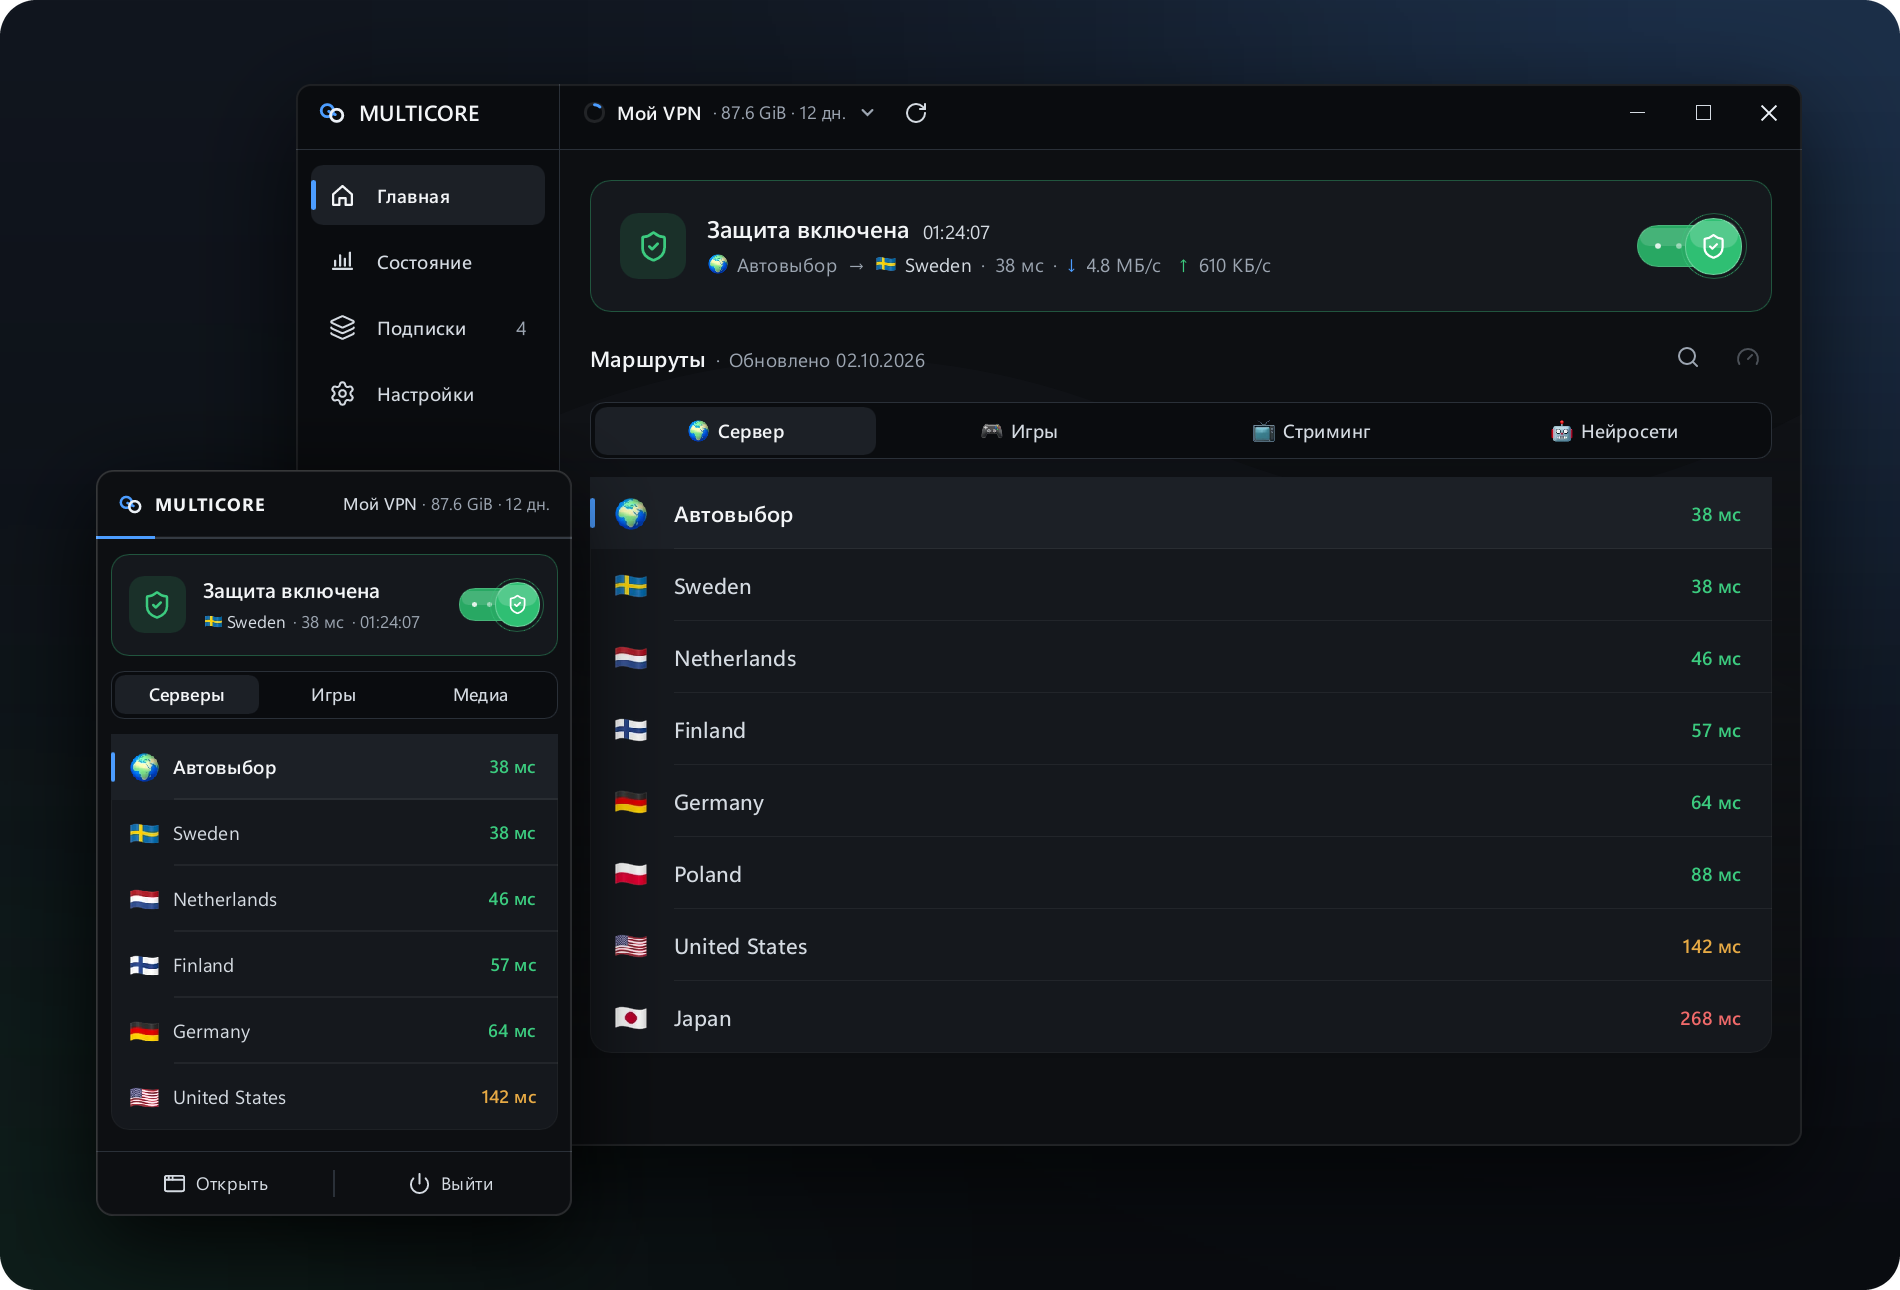
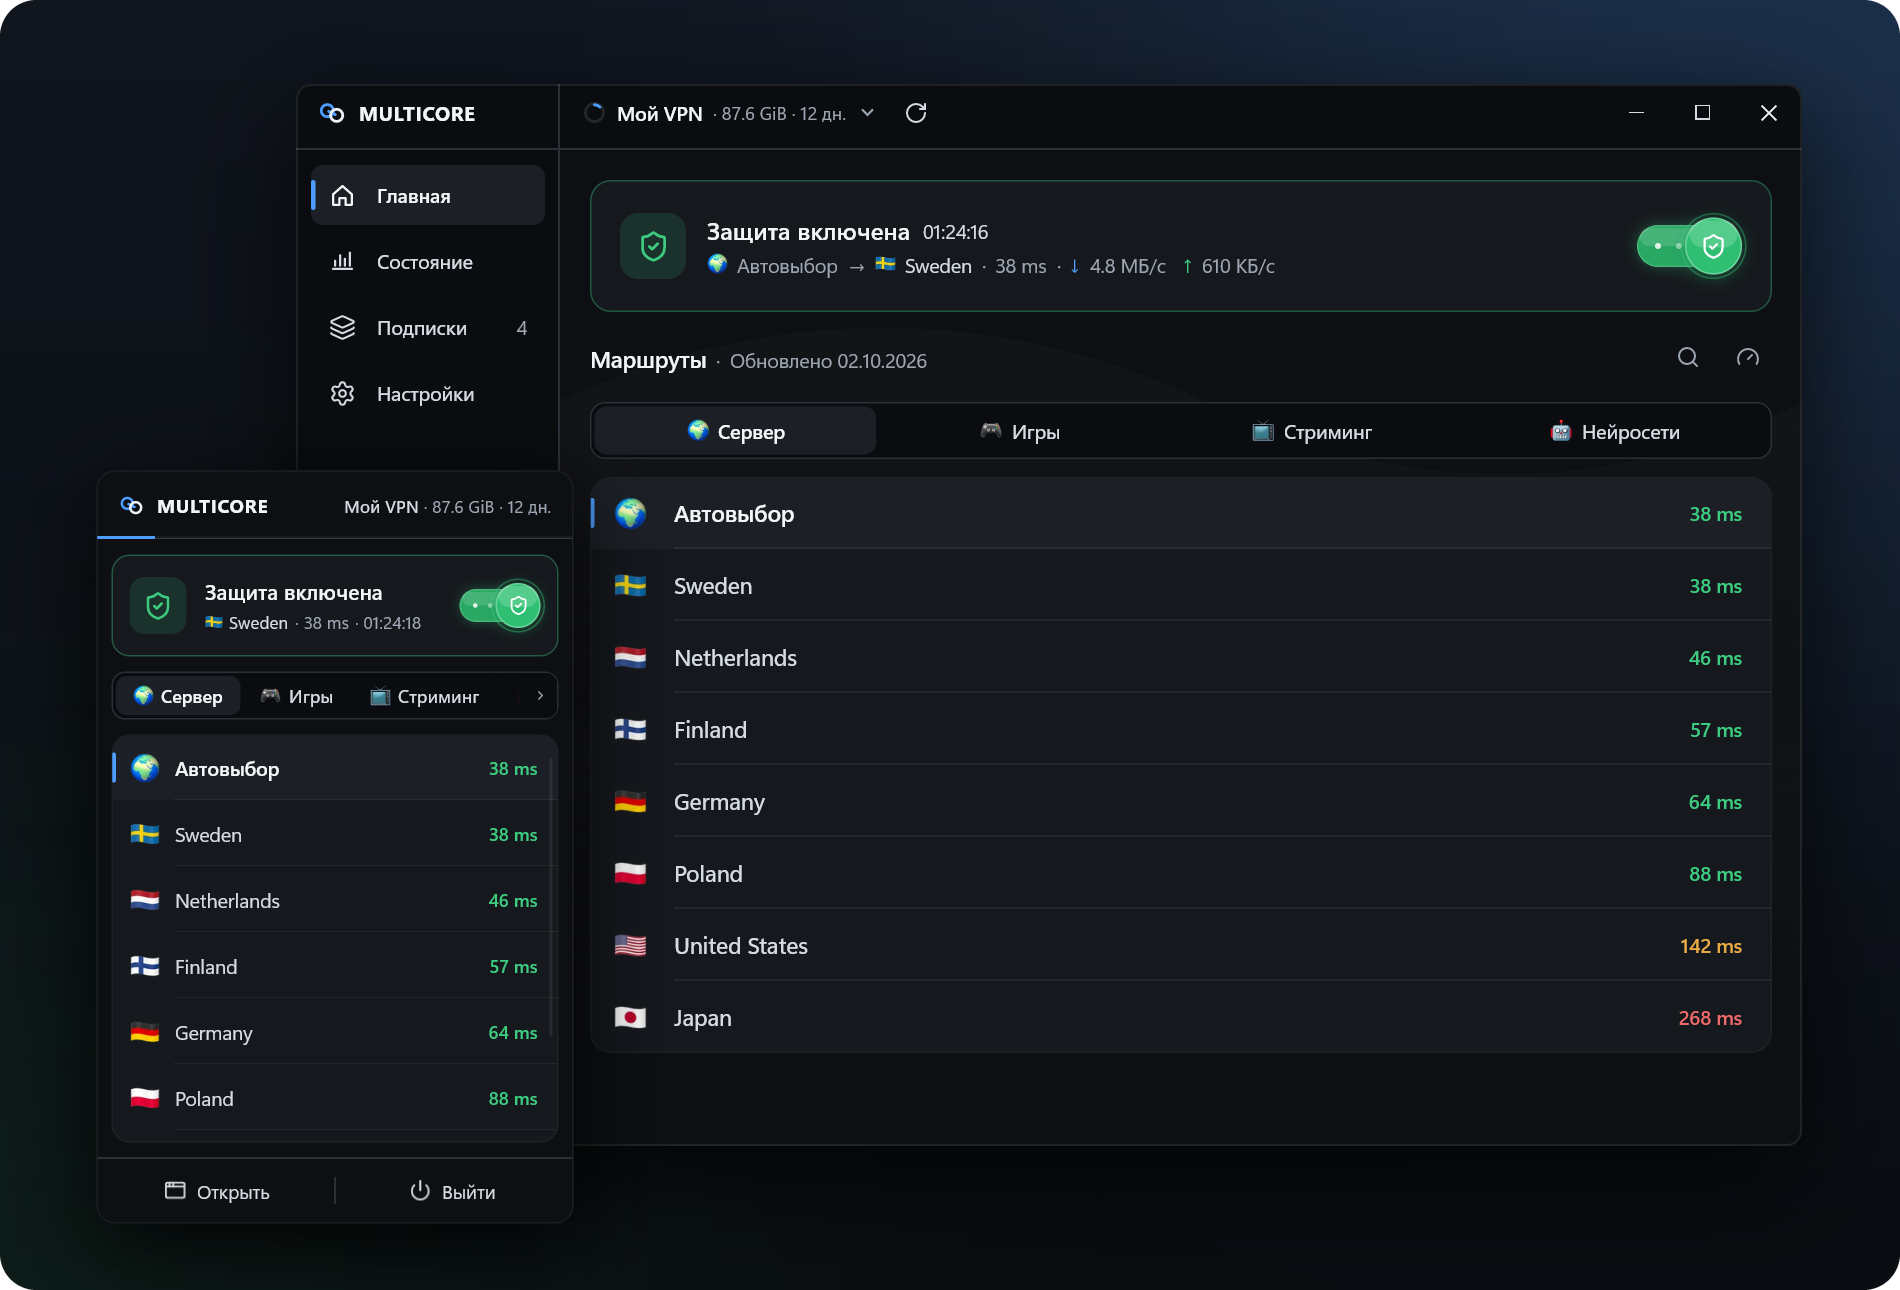
docs(readme): real 1.1.5 window captures, English screenshots for README.en
The hero and gallery images are now PrintWindow captures of the 1.1.5
desktop drawn by its Skia/Direct3D 12 renderer at 150% (fictional
provider served by a local fake daemon), instead of offscreen software
renders. The gallery shows the whole window, so Settings includes the
update section with the installed version. README.en.md gets its own
English captures (*-en.png).

diff --git a/README.en.md b/README.en.md
@@ -31,13 +31,13 @@
 
 <p align="center">
   <picture>
-    <source media="(prefers-color-scheme: dark)" srcset="docs/assets/hero-dark.png">
-    <img src="docs/assets/hero-light.png" width="100%" alt="MULTICORE main window connected through Auto-select to Sweden, with route latencies, next to the tray menu">
+    <source media="(prefers-color-scheme: dark)" srcset="docs/assets/hero-dark-en.png">
+    <img src="docs/assets/hero-light-en.png" width="100%" alt="MULTICORE main window connected through Auto-select to Sweden, with route latencies, next to the tray menu">
   </picture>
 </p>
 
 > [!NOTE]
-> The app speaks English and Russian (Settings → Language; by default it follows your system). Screenshots show the Russian interface.
+> The app speaks English and Russian (Settings → Language; by default it follows your system). Screenshots show the English interface.
 
 ## Download
 
@@ -91,12 +91,12 @@ The Windows buttons download straight from the [latest release](https://github.c
 
 <table>
   <tr>
-    <td width="50%"><img src="docs/assets/shot-subscriptions.png" alt="Subscription menu with remaining traffic and days for each subscription"></td>
-    <td width="50%"><img src="docs/assets/shot-troubleshoot.png" alt="Troubleshooter listing the problems it found"></td>
+    <td width="50%"><img src="docs/assets/shot-subscriptions-en.png" alt="Subscription menu with remaining traffic and days for each subscription"></td>
+    <td width="50%"><img src="docs/assets/shot-troubleshoot-en.png" alt="Troubleshooter listing the problems it found"></td>
   </tr>
   <tr>
-    <td><img src="docs/assets/shot-status.png" alt="Status page: both cores running, local SOCKS bridges, log"></td>
-    <td><img src="docs/assets/shot-settings.png" alt="Settings: TUN mode, autostart, troubleshooter, updates"></td>
+    <td><img src="docs/assets/shot-status-en.png" alt="Status page: both cores running, local SOCKS bridges, log"></td>
+    <td><img src="docs/assets/shot-settings-en.png" alt="Settings: TUN mode, autostart, troubleshooter, updates"></td>
   </tr>
 </table>
 
